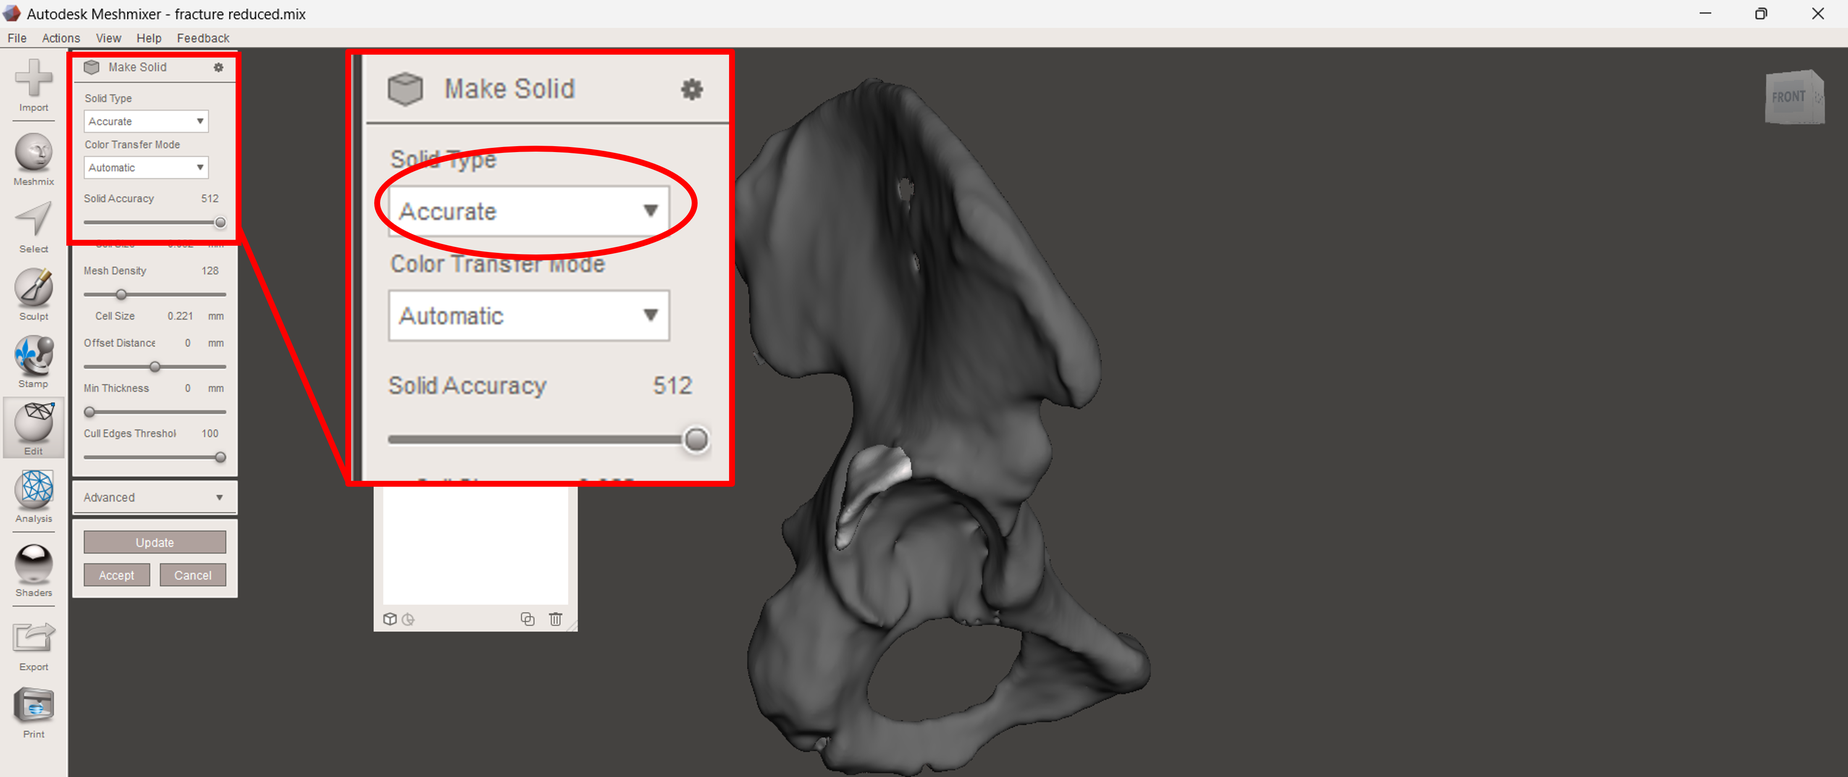
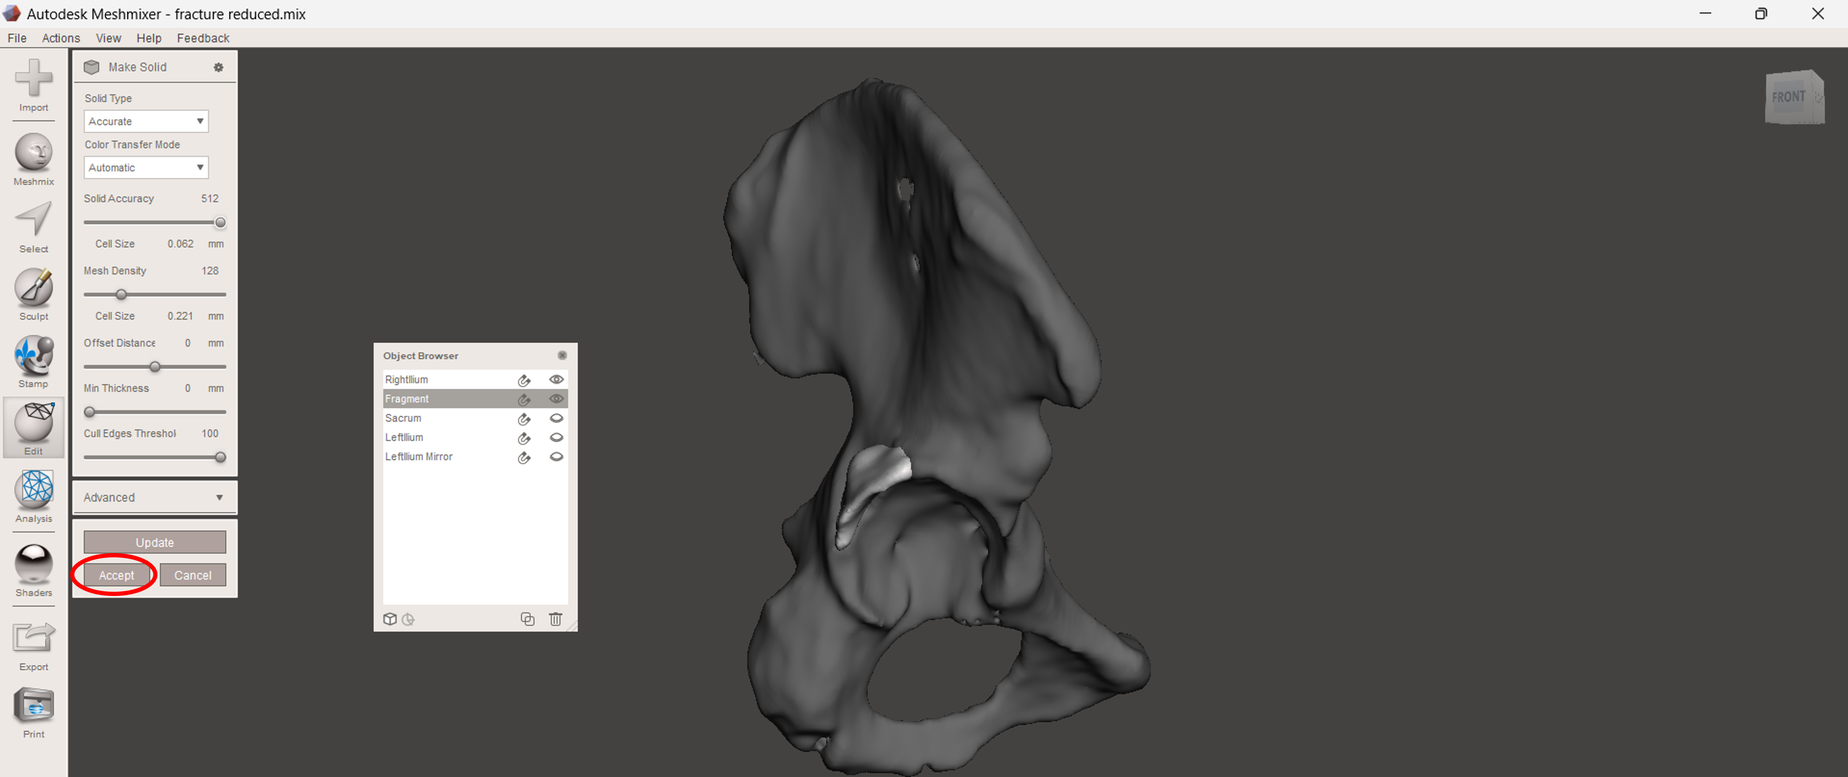
✨ feat: added pictures

Changed region(s): [[0.1557, 0.0616, 0.4048, 0.647], [0.0311, 0.0616, 0.1557, 0.4314], [0.0311, 0.7086, 0.0934, 0.7703]]

diff --git a/data/D1mesh_data.tsx b/data/D1mesh_data.tsx
@@ -100,7 +100,7 @@ export const MeshTutorial2 = [
     title: "",
     description: (
       <div>
-        To separate the mandible, left click on the{" "}
+        To separate the Right Ilium, left click on the{" "}
         <span className="font-bold">Select</span> icon which will activate the
         <span className="font-bold">brush tool</span> and allow the user to{" "}
         <span className="font-bold">“paint”</span> or select any area of the 3D
@@ -114,7 +114,10 @@ export const MeshTutorial2 = [
   },
   {
     title: "",
-    description: <div>The area highlighted in <span className="font-bold">dark grey</span> is the area of the brush.</div>,
+    description:
+      (
+        <div>To <span className="font-bold">select or “paint”</span> the area, press the <span className="font-bold">left mouse button</span> once. To continuously paint, <span className="font-bold">hold the left mouse button and drag the brush</span> over the desired area.</div>
+      ),
     image: D1.picture83,
     alt: "illustration",
   },
@@ -122,7 +125,7 @@ export const MeshTutorial2 = [
     title: "",
     description:
       (
-        <div>To <span className="font-bold">select or “paint”</span> the area, press the <span className="font-bold">left mouse button</span> once. To continuously paint, <span className="font-bold">hold the left mouse button and drag the brush</span> over the desired area.</div>
+        <div>To select the entire Right Ilium, paint any area of the mandible using the brush tool and through the modify menu, select <span className="font-bold">“expand to connected”</span>. Alternatively, this can be done by pressing the hotkey <span className="font-bold">“E”</span> or simply <span className="font-bold">double clicking</span> on the left mouse button. The expand to connected function works by expanding the selected area to all the connected areas in an object. Since the Right Ilium has already been separated in 3D slicer, it is not <span className="font-bold">“connected”</span> to the rest of the pelvis.</div>
       ),
     image: D1.picture84,
     alt: "illustration",
@@ -131,7 +134,7 @@ export const MeshTutorial2 = [
     title: "",
     description:
       (
-        <div>To select the entire mandible, paint any area of the mandible using the brush tool and through the modify menu, select <span className="font-bold">“expand to connected”</span>. Alternatively, this can be done by pressing the hotkey <span className="font-bold">“E”</span> or simply <span className="font-bold">double clicking</span> on the left mouse button. The expand to connected function works by expanding the selected area to all the connected areas in an object. Since the mandible has already been separated in 3D slicer, it is not <span className="font-bold">“connected”</span> to the rest of the skull.</div>
+        <div>To make the Right Ilium as a separate object, access the separate option through the <span className="font-bold">edit menu</span>. This can also be done by typing the hotkey <span className="font-bold">“Y”</span></div>
       ),
     image: D1.picture85,
     alt: "illustration",
@@ -140,7 +143,7 @@ export const MeshTutorial2 = [
     title: "",
     description:
       (
-        <div>To make the mandible as a separate object, access the separate option through the <span className="font-bold">edit menu</span>. This can also be done by typing the hotkey <span className="font-bold">“Y”</span></div>
+        <div>Once the Right Ilium has been separated, it will appear as a separate object in the <span className="font-bold">object browser</span>. The <span className="font-bold">highlighted object</span> in the object browser is the object that is currently <span className="font-bold">“active”</span>. It will show up as the white object in the screen and all changes will be made on that object. The <span className="font-bold">Objects can be renamed</span> by <span className="font-bold">double clicking</span> on the object name. Do the same for the other Parts.</div>
       ),
     image: D1.picture86,
     alt: "illustration",
@@ -149,7 +152,7 @@ export const MeshTutorial2 = [
     title: "",
     description:
       (
-        <div>Once the mandible has been separated, it will appear as a separate object in the <span className="font-bold">object browser</span>. The <span className="font-bold">highlighted object</span> in the object browser is the object that is currently <span className="font-bold">“active”</span>. It will show up as the white object in the screen and all changes will be made on that object. The <span className="font-bold">Objects can be renamed</span> by <span className="font-bold">double clicking</span> on the object name.</div>
+        <div>Once the Right Ilium has been separated, it will appear as a separate object in the object browser. The objects can be <span className="font-bold">hidden</span> by <span className="font-bold">left clicking on the “visibility”</span> icon on the right.</div>
       ),
     image: D1.picture87,
     alt: "illustration",
@@ -158,7 +161,7 @@ export const MeshTutorial2 = [
     title: "",
     description:
       (
-        <div>Once the mandible has been separated, it will appear as a separate object in the object browser. The Objects can be <span className="font-bold">renamed</span> by <span className="font-bold">double clicking</span> on the object name for this tutorial rename the object to <span className="font-bold">“skull”</span>. The objects can be <span className="font-bold">hidden</span> by <span className="font-bold">left clicking on the “visibility”</span> icon on the right.</div>
+        <div> <span className="font-bold">We can see that the posterior wall fracture fragment is on the</span> and <span className="font-bold">right side</span>. We can fix this “fracture” in place using the <span className="font-bold">"Transform"</span> function. Position the pelvis posteriorly.</div>
       ),
     image: D1.picture88,
     alt: "illustration",
@@ -167,7 +170,7 @@ export const MeshTutorial2 = [
     title: "",
     description:
       (
-        <div> <span className="font-bold">Hide the rest of the skull</span> and <span className="font-bold">leave only the mandible</span>. We can see that there is a <span className="font-bold">tumor</span> on the <span className="font-bold">right side</span> of the mandible. We can remove this tumor using the <span className="font-bold">plane cut</span> function. Position the mandible by clicking on the <span className="font-bold">“top”</span> area of the view cube.</div>
+        <div>Click select, and double click the fragment. Click Transform. The fragment can be rotated and manipulated to fix it in the fractured area.</div>
       ),
     image: D1.picture89,
     alt: "illustration",
@@ -176,7 +179,7 @@ export const MeshTutorial2 = [
     title: "",
     description:
       (
-        <div>We can remove the tumor side of the mandible using the <span className="font-bold">“plane cut”</span> function.</div>
+        <div>You can rotate the Whole model as needed by holding  <span className="font-bold">“Right Click and dragging the mouse ”</span> in the direction you want.</div>
       ),
     image: D1.picture90,
     alt: "illustration",
@@ -185,7 +188,7 @@ export const MeshTutorial2 = [
     title: "",
     description:
       (
-        <div>The <span className="font-bold">“plane cut”</span> function is active when a grid is visible over the screen.</div>
+        <div>You can freely position or drag the fragment by  <span className="font-bold">Left Clicking and holding the Red or Blue Triangle </span> and dragging it to the position you want.</div>
       ),
     image: D1.picture91,
     alt: "illustration",
@@ -194,7 +197,7 @@ export const MeshTutorial2 = [
     title: "",
     description:
       (
-        <div>To position the plane in the desired area, <span className="font-bold">hold down the left mouse</span> button and <span className="font-bold">drag downwards</span> through the middle of the mandible. The <span className="font-bold">red line</span> will show the area where the plane will be placed.</div>
+        <div>Rotate the fragment as needed until near the configuration to “fix” it to the right acetabulum .</div>
       ),
     image: D1.picture92,
     alt: "illustration",
@@ -203,7 +206,7 @@ export const MeshTutorial2 = [
     title: "",
     description:
       (
-        <div>After dragging the red line through the middle, release the left mouse button and the plane will by placed. Note the transparent area is the area that will be cut. To <span className="font-bold">switch</span> this to the other side, <span className="font-bold">left click on the blue arrow.</span></div>
+        <div>Fit it to the Defect. To reduce and “fix” the fracture fragment. Rotate the whole model to check good fracture reduction</div>
       ),
     image: D1.picture93,
     alt: "illustration",
@@ -212,7 +215,7 @@ export const MeshTutorial2 = [
     title: "",
     description:
       (
-        <div>You can choose to <span className="font-bold">remove one half or keep both halves</span> through the dropdown menu. For this tutorial, select <span className="font-bold">keep both.</span></div>
+        <div>Fit it to the Defect. To reduce and “fix” the fracture fragment. Rotate the whole model to check good fracture reduction</div>
       ),
     image: D1.picture94,
     alt: "illustration",
@@ -221,7 +224,7 @@ export const MeshTutorial2 = [
     title: "",
     description:
       (
-        <div>You can choose to move the plane by clicking on the <span className="font-bold">directional buttons and dragging</span> towards the desired area. <span className="font-bold">Rotating the plane</span> can also be done by clicking and dragging on the curved lines.</div>
+        <div>Fit it to the Defect. To reduce and “fix” the fracture fragment. Rotate the whole model to check good fracture reduction</div>
       ),
     image: D1.picture95,
     alt: "illustration",
@@ -230,7 +233,7 @@ export const MeshTutorial2 = [
     title: "",
     description:
       (
-        <div>For defects/tumors on one side of the mandible, position the plane slightly away from the middle towards the tumor side to allow for sufficient overlapping of the model during the next few steps. Once the position is sufficient, click on <span className="font-bold">accept.</span></div>
+        <div>You can compare your reduction with an intact Ilium <span className="font-bold">Mirroring</span>  the Left Ilium to the Right Ilium. Select the <span className="font-bold">Left Ilium </span> in the  <span className="font-bold">Object Browser</span>. Select Edit and<span className="font-bold">“Mirror”</span>.</div>
       ),
     image: D1.picture96,
     alt: "illustration",
@@ -239,25 +242,25 @@ export const MeshTutorial2 = [
     title: "",
     description:
       (
-        <div> <span className="font-bold">Select the normal half of the mandible</span> by double clicking using the <span className="font-bold">select tool</span> and separating using the <span className="font-bold">separate function</span> in the edit drop down menu, or simply use the hotkey <span className="font-bold">“Y”</span>.</div>
+        <div>This Creates a Mirror of the Left Ilium. For now, hide the  <span className="font-bold">"Right Ilium"</span> Select the mirror and separate it as another object by pressing <span className="font-bold"> "Y" </span> in the keyboard. This will create another object in Object Browser. We will rename it as <span className="font-bold">“LeftIlium Mirror”. </span></div>
       ),
     image: D1.picture97,
     alt: "illustration",
   },
   {
     title: "",
-    description:
-      (
-        <div>Once Successfully separated, a third object will be available in the object browser. <span className="font-bold">Rename</span> the part to <span className="font-bold">mandiblenormal</span>. Rename the other part to <span className="font-bold">mandibletumor.</span></div>
-      ),
+    description: (
+      <div>This Creates a Copy of the Left Ilium and deselects the original. We will rename it as “LeftIlium Mirror</div>
+    ),
     image: D1.picture98,
     alt: "illustration",
   },
   {
     title: "",
-    description: (
-      <div>Hide the mandibletumor object by clicking on the <span className="font-bold">“eye”</span> icon.</div>
-    ),
+    description:
+      (
+        <div>Hide the original <span className="font-bold">“Left Ilium”</span> and select the <span className="font-bold">“LeftIlium Mirror”</span></div>
+      ),
     image: D1.picture99,
     alt: "illustration",
   },
@@ -265,7 +268,7 @@ export const MeshTutorial2 = [
     title: "",
     description:
       (
-        <div>To <span className="font-bold">“reconstruct”</span> the missing half, select the mirror function under the <span className="font-bold">“edit”</span> icon.</div>
+        <div>Since the pelvis is still unreduced, we can manipulate the mirrored object to fix it, by Clicking <span className="font-bold">Transform</span></div>
       ),
     image: D1.picture100,
     alt: "illustration",
@@ -274,7 +277,7 @@ export const MeshTutorial2 = [
     title: "",
     description:
       (
-        <div>You can <span className="font-bold">mirror</span> the normal side of the mandible. It is important to not just reconstruct the missing side but also to make sure that it is in its <span className="font-bold">proper position.</span></div>
+        <div>Same with the fragment reduction earlier, we will manipulate the Mirror to reduce the pelvis. Check in all Views to carefully assess the reduction.</div>
       ),
     image: D1.picture101,
     alt: "illustration",
@@ -283,7 +286,7 @@ export const MeshTutorial2 = [
     title: "",
     description:
       (
-        <div>To do this, <span className="font-bold">“show” the “skull”</span> object by clicking on the <span className="font-bold">“eye”</span> icon. Position the view to bottom via the view cube.</div>
+        <div>Now show the <span className="font-bold">"Right Ilium"</span> and <span className="font-bold">"Fragment"</span> objects in the browser. </div>
       ),
     image: D1.picture102,
     alt: "illustration",
@@ -292,7 +295,7 @@ export const MeshTutorial2 = [
     title: "",
     description:
       (
-        <div>Take note of the position of the <span className="font-bold">condyles</span>. <span className="font-bold">Drag the blue</span> directional arrow until the left condyle is sitting in a similar position as the normal mandible.</div>
+        <div>This shows good overlap of the  <span className="font-bold">Left Ilium Mirror</span> the RightIlium and Fragment Objects.</div>
       ),
     image: D1.picture103,
     alt: "illustration",
@@ -301,7 +304,7 @@ export const MeshTutorial2 = [
     title: "",
     description:
       (
-        <div>You can further <span className="font-bold">manipulate</span> the objects to fine-tune your reconstruction. <span className="font-bold">Once satisfied</span> with the position of the mirrored mandible, click <span className="font-bold">“accept”</span>.</div>
+        <div>Once satisfied, make the object into a solid by clicking on the <span className="font-bold">“edit”</span> icon and clicking on <span className="font-bold">“make solid”</span>. This will <span className="font-bold">“fill” the object and remove any internal geometry</span> making it ready for 3D printing. Do this for every object you are planning to print. For this case, we are only printing the fragment and the Right Ilium</div>
       ),
     image: D1.picture104,
     alt: "illustration",
@@ -310,35 +313,26 @@ export const MeshTutorial2 = [
     title: "",
     description:
       (
-        <div>The position can be further confirmed by making the tumor side of the mandible visible and comparing the position of the condyle. This can only be done if the condyle in the tumor side is in its normal position. Very large tumors may displace the condyle away from its regular position and may serve as a good reference.</div>
+        <div>We want our print to be as Accurate as possible, so click Accurate and adjust the Solid Accuracy Slider to Max. Do this for every object you want to print.</div>
       ),
     image: D1.picture105,
     alt: "illustration",
   },
   {
     title: "",
-    description:
-      (
-        <div>Once satisfied, make the object into a solid by clicking on the <span className="font-bold">“edit”</span> icon and clicking on <span className="font-bold">“make solid”</span>. This will <span className="font-bold">“fill” the object and remove any internal geometry</span> making it ready for 3D printing.</div>
-      ),
+    description: (
+      <div>click on  <span className="font-bold">“accept”.</span></div>
+    ),
     image: D1.picture106,
     alt: "illustration",
   },
   {
     title: "",
-    description: (
-      <div>Use the default settings and click on  <span className="font-bold">“accept”.</span></div>
-    ),
-    image: D1.picture107,
-    alt: "illustration",
-  },
-  {
-    title: "",
     description:
       (
-        <div>To save the object, click on <span className="font-bold">“file”</span> then <span className="font-bold">“export”</span> and save the mandible into your desired folder. Congratulations! You have successfully removed the tumor side as well as reconstructed the mandible. This object can be used as a guide for pre-bending titanium implants. Although not a standalone process in mandibular reconstruction, this process shows the basics in extraction and manipulation of the mandible in a 3D environment.</div>
+        <div>To save the object, click on <span className="font-bold">“file”</span> then <span className="font-bold">“export”</span> and save the Right Ilium into your desired folder. Congratulations! You have successfully fixed the fractured side as well as Compare it to a Mirrored normal side. This object can be used as a guide for pre-bending your Stainless Steel Recon plates. Although not a standalone process in Pelvic Surgery, this process shows the basics in fixation and manipulation of the Fractured Fragments in a 3D environment.</div>
       ),
-    image: D1.picture108,
+    image: D1.picture107,
     alt: "illustration",
   },
   {

diff --git a/data/C5advanced_data.tsx b/data/C5advanced_data.tsx
@@ -73,7 +73,7 @@ export const slicerTutorial10 = [
   {
     title: "",
     description: (
-      <div><span className="font-bold">Rename</span> the upper segment to <span className="font-bold">“Skull”</span> and the lower segment to <span className="font-bold">“Mandible”</span>. These segments will represent the structures we will isolate. Changing the colors of each segment into contrasting colors will help improve visualization of the different areas of segmentation.</div>
+      <div><span className="font-bold">Rename</span> the right segment to <span className="font-bold">“Right Ilium”</span> and the left segment to <span className="font-bold">“Left Ilium”</span>. These segments will represent the structures we will isolate. Changing the colors of each segment into contrasting colors will help improve visualization of the different areas of segmentation.</div>
     ),
     image: C5.picture56,
     alt: "illustration",
@@ -118,7 +118,7 @@ export const slicerTutorial10 = [
     title: "",
     description:
       (
-        <div>Using the <span className="font-bold">middle mouse scroll wheel</span>, adjust the <span className="font-bold">image views</span> so that the mandible and the rest of the skull are together in one image. Perform this action for all windows.</div>
+        <div>Using the <span className="font-bold">middle mouse scroll wheel</span>, adjust the <span className="font-bold">image views</span> so that the right and left ilium, the fragment and sacrum are together in one image. Perform this action for all windows.</div>
       ),
     image: C5.picture61,
     alt: "illustration",
@@ -127,7 +127,7 @@ export const slicerTutorial10 = [
     title: "",
     description:
       (
-        <div>Make sure the <span className="font-bold">“skull”</span> segment is selected by <span className="font-bold">left clicking on it</span>. Using the paint function, <span className="font-bold">“paint”</span> areas of the skull that are near the mandible.</div>
+        <div>Make sure the <span className="font-bold">“Right Ilium”</span> segment is selected by <span className="font-bold">left clicking on it</span>. Using the paint function, <span className="font-bold">“paint”</span> areas of the Pelvis that are near the mandible.Do the same for the “Left Ilium”</div>
       ),
     image: C5.picture62,
     alt: "illustration",
@@ -136,7 +136,7 @@ export const slicerTutorial10 = [
     title: "",
     description:
       (
-        <div><span className="font-bold">Left click</span> on the <span className="font-bold">“mandible”</span> segment to activate it, then <span className="font-bold">“paint”</span> the mandible using the <span className="font-bold">paint function</span>. Make sure that the highlighted areas do not overlap. This can be done in different slices to ensure higher accuracy. Attention should be placed where both structures <span className="font-bold">(mandible & the rest of the skull)</span> overlap such as the teeth.</div>
+        <div><span className="font-bold">Left click</span> on the <span className="font-bold">“Sacrum”</span> segment to activate it, then <span className="font-bold">“paint”</span> the sacrum using the <span className="font-bold">paint function</span>.Do this also for the “Fragment”. Make sure that the highlighted areas do not overlap. This can be done in different slices to ensure higher accuracy. Attention should be placed where both structures <span className="font-bold">(sacroiliac joint, acetabulum and hip joint) </span> overlap.</div>
       ),
     image: C5.picture63,
     alt: "illustration",
@@ -190,7 +190,7 @@ export const slicerTutorial10 = [
     title: "",
     description:
       (
-        <div><span className="font-bold">Selecting the “skull”</span> or <span className="font-bold">“mandible”</span> segments and painting the overlapping areas respectively will automatically update the preview.</div>
+        <div><span className="font-bold">Selecting the “Right Ilium”</span> or <span className="font-bold">“Sacrum”</span> segments and painting the overlapping areas respectively will automatically update the preview.</div>
       ),
     image: C5.picture69,
     alt: "illustration",

diff --git a/data/C4basic_data.tsx b/data/C4basic_data.tsx
@@ -73,7 +73,7 @@ export const slicerTutorial9 = [
     title: "",
     description:
       (
-        <div><span className="font-bold">Double clicking</span> with the left mouse button on the segment name will allow the user to <span className="font-bold">rename the segment</span>. For now, rename the segment to <span className="font-bold">“Skull”</span>.</div>
+        <div><span className="font-bold">Double clicking</span> with the left mouse button on the segment name will allow the user to <span className="font-bold">rename the segment</span>. For now, rename the segment to <span className="font-bold">“Pelvis”</span>.</div>
       ),
     image: C4.picture30,
     alt: "illustration",
@@ -162,7 +162,7 @@ export const slicerTutorial9 = [
     title: "",
     description:
       (
-        <div><span className="font-bold">Once the 3D image of the skull is centered</span> in the blue window, maximize the blue window by <span className="font-bold">double clicking with the left mouse button.</span> Often times, the 3D image has artifacts.</div>
+        <div><span className="font-bold">Once the 3D image of the pelvis is centered</span> in the blue window, maximize the blue window by <span className="font-bold">double clicking with the left mouse button.</span> Often times, the 3D image has artifacts.</div>
       ),
     image: C4.picture40,
     alt: "illustration",
@@ -198,7 +198,7 @@ export const slicerTutorial9 = [
     description:
       (
         <div>
-        <span className="font-bold">Left click</span> on <span className="font-bold">any part of the skull</span>. This will <span className="font-bold">remove</span> the components not connected to the selected area hence removing the artifacts.
+        <span className="font-bold">Left click</span> on <span className="font-bold">any part of the pelvis</span>. This will <span className="font-bold">remove</span> the components not connected to the selected area hence removing the artifacts.
         </div>
       ),
     image: C4.picture44,
@@ -207,7 +207,7 @@ export const slicerTutorial9 = [
   {
     title: "",
     description: (
-      <div>This image shows the skull with the <span className="font-bold">artifacts removed.</span></div>
+      <div>This image shows the pelvis with the <span className="font-bold">artifacts removed.</span></div>
     ),
     image: C4.picture45,
     alt: "illustration",
